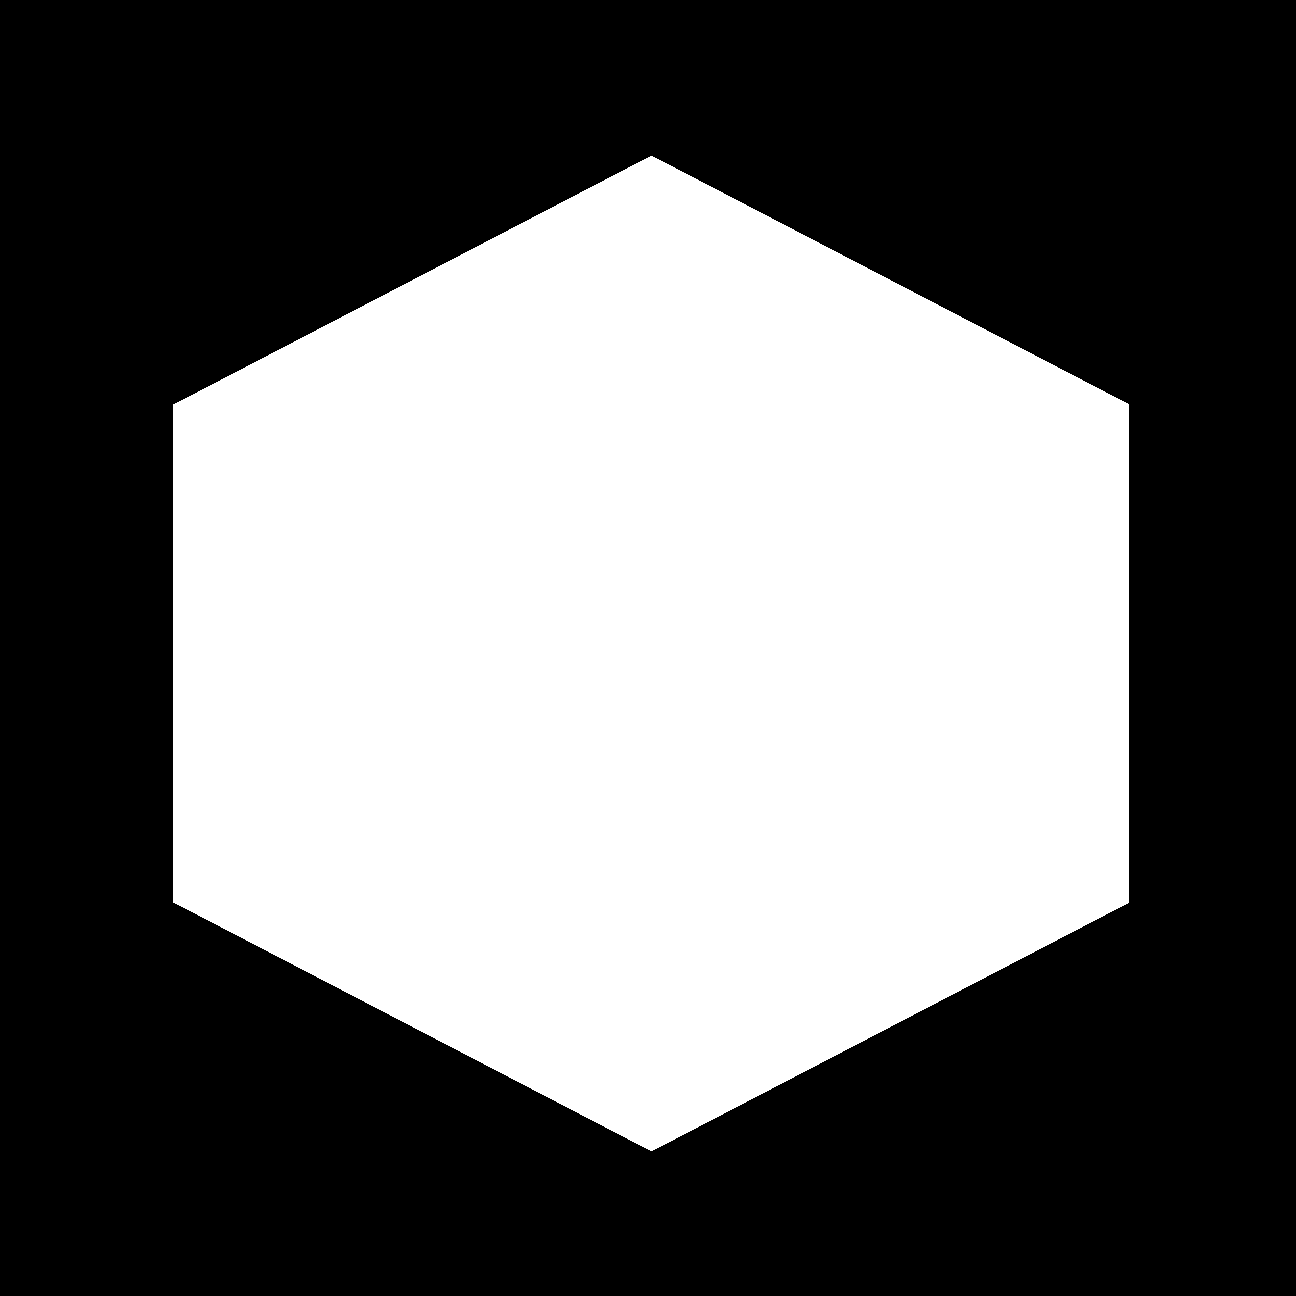
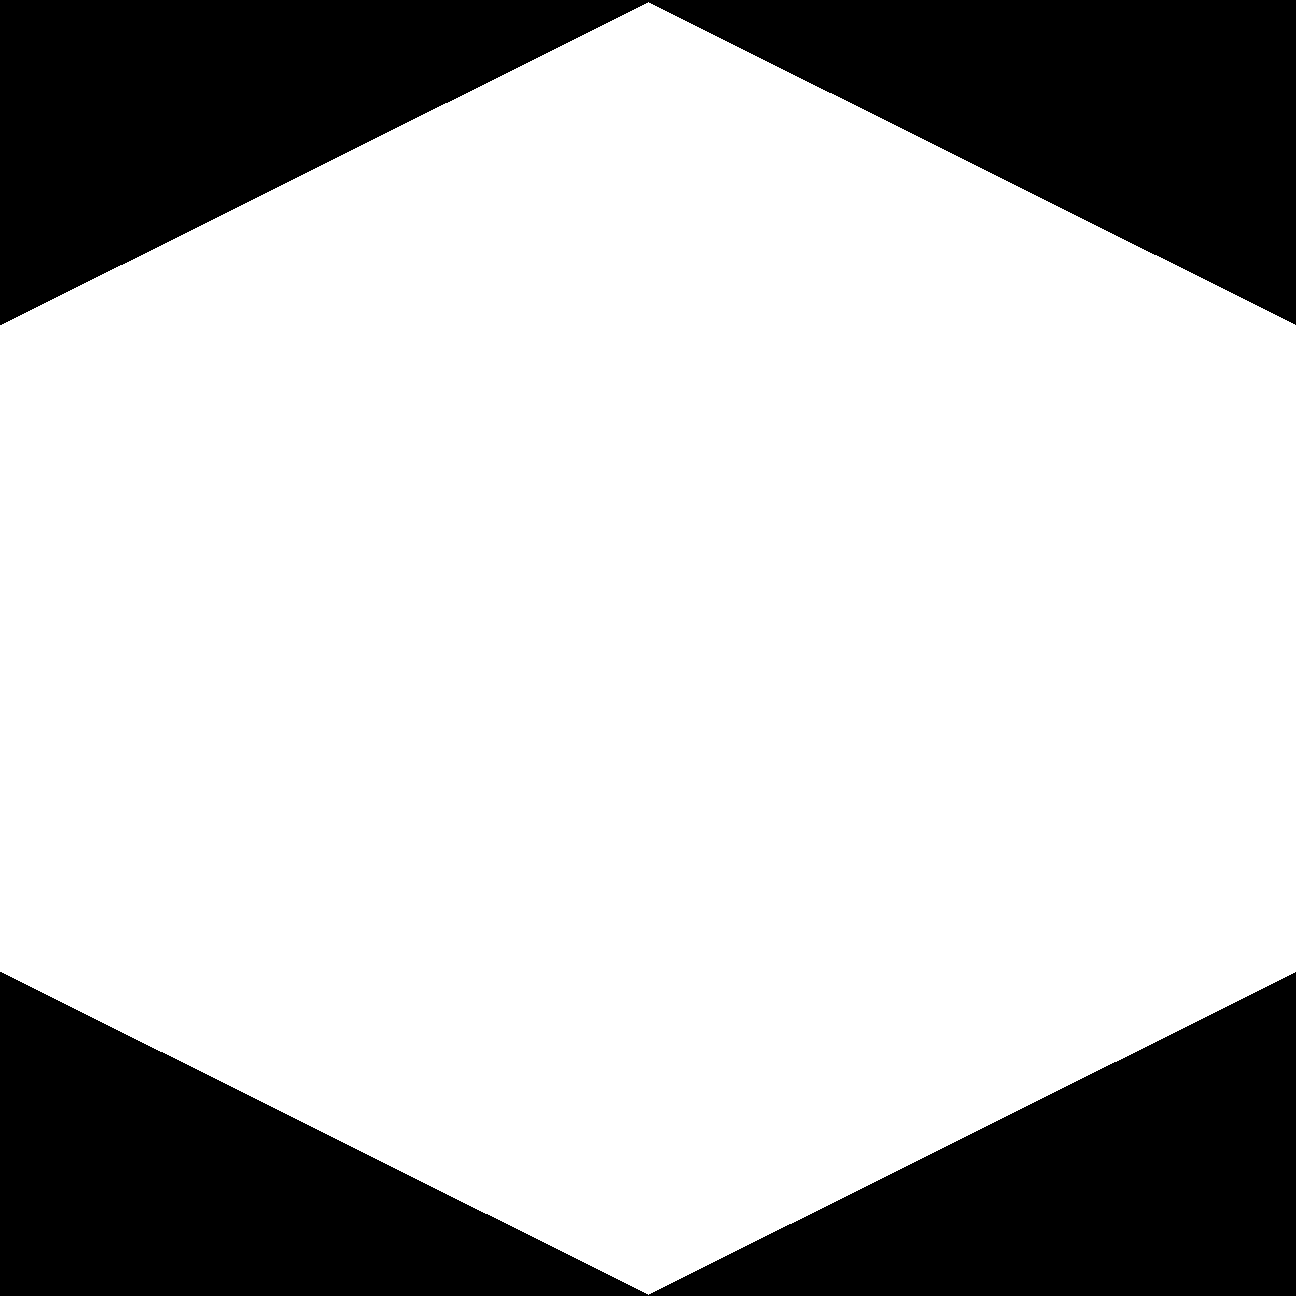
Aperture maker and starburst changes

diff --git a/LensFlare_CGSeminar/src/application.cpp b/LensFlare_CGSeminar/src/application.cpp
@@ -29,12 +29,13 @@ DISABLE_WARNINGS_POP()
 #include "Windows.h"
 #include "lens_solver.h"
 #include "coating_solver.h"
+#include "aperture_maker.h"
 
 /* GLOBAL PARAMS */
 HWND hwnd = GetConsoleWindow();
 UINT dpi = GetDpiForWindow(hwnd);
 const float DISPLAY_SCALING_FACTOR = static_cast<float>(dpi) / 96.0f;
-const char* APERTURE_TEXTURE = "resources/aperture2.png";
+const char* APERTURE_TEXTURE = "resources/iris.png";
 
 class Application {
 public:
@@ -142,12 +143,24 @@ public:
         m_postAPTtransmissions = m_lensSystem.getTransmission(m_postAptReflectionPairs, post_apt_center_ray_x, post_apt_center_ray_y, quarterWaveCoating);
     }
 
+	void updateStarburstTexture(GLuint texStarburst) {
+        createStarburst(APERTURE_TEXTURE);
+        int texWidth, texHeight, texChannels;
+        stbi_uc* pixels = stbi_load("resources/starburst_texture.png", &texWidth, &texHeight, &texChannels, STBI_rgb_alpha);
+
+        if (!pixels) {
+            std::cerr << "Failed to load starburst texture" << std::endl;
+        }
+        glTextureSubImage2D(texStarburst, 0, 0, 0, texWidth, texHeight, GL_RGBA, GL_UNSIGNED_BYTE, pixels);
+        stbi_image_free(pixels);
+	}
+
     void update()
     {
         /* INIT */
 
         /* Create starburst texture */
-        //createStarburst(APERTURE_TEXTURE);
+        createStarburst(APERTURE_TEXTURE);
 
         /* Light Sphere */
         const Mesh lightSphere = mergeMeshes(loadMesh("resources/sphere.obj"));
@@ -328,6 +341,13 @@ public:
 
         bool greyScaleColor = false;
 
+        float starburstScale = 5;
+
+        bool aptMakerOpen = false;
+        bool aptMakerClosed = true;
+        updateAptImage();
+        updateAptTexture(texApt);
+
         /* Flare Paths and Matrices */
         m_lens_interfaces = m_lensSystem.getLensInterfaces();
         refreshMatricesAndQuads();
@@ -351,7 +371,6 @@ public:
 			ImGui::TextColored(ImVec4(1.0f, 1.0f, 0.0f, 1.0f), "Light Settings");
 
             ImGui::SliderFloat("Light Intensity", &m_light_intensity, min_light_intensity, max_light_intensity);
-            //TODO: ADD LIGHT COLOR
 
             if (!m_buildFromScratch) {
                 //Button loading lens system
@@ -382,7 +401,6 @@ public:
                 }
             }
 
-
             ImGui::TextColored(ImVec4(1.0f, 1.0f, 0.0f, 1.0f), "Global Lens Settings");
             
             ImGui::SliderFloat("Lens FOV", &fov, 10.0f, 120.0f);
@@ -390,6 +408,23 @@ public:
                 m_mainProjectionMatrix = glm::perspective(glm::radians(fov), m_aspect, 0.01f, 100.0f);
                 fovMemory = fov;
             }
+
+            ImGui::SliderFloat("Starburst Scale", &starburstScale, 0.0f, 40.0f);
+
+            if (ImGui::Button("Modify Aperture")) {
+                aptMakerOpen = true;
+                ImGui::OpenPopup("Aperture Generator");
+            }
+
+            if (aptMakerOpen) {
+                createApt(&aptMakerOpen, texApt);
+            }
+
+            if (aptMakerClosed && !aptMakerOpen)
+            {
+                updateStarburstTexture(texStarburst);
+            }
+            aptMakerClosed = aptMakerOpen;
 
             ImGui::SliderFloat("Aperture Height", &m_lensSystem.m_aperture_height, 0.0f, 30.0f);
             if (!m_buildFromScratch) {
@@ -1313,7 +1348,6 @@ public:
             starburstMatrix = glm::rotate(starburstMatrix, cameraYawandPitch.y, glm::vec3(1.0f, 0.0f, 0.0f));
 
             glm::vec3 starburstColor = glm::vec3({ 50.f, 50.f, 50.f });
-            float starburstScale = 25;
 
             m_starburstShader.bind();
             glUniformMatrix4fv(0, 1, GL_FALSE, glm::value_ptr(m_mvp));
@@ -1602,7 +1636,7 @@ private:
     Shader m_builderShader;
 
     /* Light Source */
-    const glm::vec3 m_lcolor{ 1, 1, 0.5 };
+    const glm::vec3 m_lcolor{ 1, 1, 0.7 };
     /* Light */
     glm::vec3 m_light_pos = { 0.0001f, 0.0001f, 20.f };
     float m_light_intensity = 150.0f;

diff --git a/LensFlare_CGSeminar/src/starburst.cpp b/LensFlare_CGSeminar/src/starburst.cpp
@@ -1,9 +1,8 @@
 #include <opencv2/opencv.hpp>
 #include <glm/glm.hpp>
-#include "utils.h"
+#include "utils.h" 
 
 int createStarburst(const char* apertureLocation) {
-    // Load the aperture texture
     cv::Mat aperture = cv::imread(apertureLocation, cv::IMREAD_GRAYSCALE);
     if (aperture.empty()) {
         std::cerr << "Failed to load aperture texture." << std::endl;
@@ -29,7 +28,6 @@ int createStarburst(const char* apertureLocation) {
     // Rearrange the quadrants of Fourier image
     int cx = magnitudeImage.cols / 2;
     int cy = magnitudeImage.rows / 2;
-
     cv::Mat q0(magnitudeImage, cv::Rect(0, 0, cx, cy));
     cv::Mat q1(magnitudeImage, cv::Rect(cx, 0, cx, cy));
     cv::Mat q2(magnitudeImage, cv::Rect(0, cy, cx, cy));
@@ -46,37 +44,42 @@ int createStarburst(const char* apertureLocation) {
 
     cv::normalize(magnitudeImage, magnitudeImage, 0, 1, cv::NORM_MINMAX);
 
-    // Prepare an RGB texture by superimposing scaled spectra for different wavelengths
     cv::Mat starburstTexture = cv::Mat::zeros(magnitudeImage.size(), CV_32FC3);
 
-    // Wavelengths from 380 nm to 750 nm (visible spectrum)
+    double lambda0 = 565.0;
+    // Iterate over wavelengths from 380 to 750
     for (double lambda = 380; lambda <= 750.0; lambda += 5.0) {
-        double scale = 10 /* Define your scaling based on wavelength */;
+        double scale = 35;  // Scale factor to boost intensity
         cv::Mat scaledMagnitude;
         cv::multiply(magnitudeImage, scale, scaledMagnitude);
-
-        // Convert wavelength to RGB
         glm::vec3 color = wavelengthToRGB(lambda);
 
-        // Accumulate into the starburst texture
-        for (int y = 0; y < starburstTexture.rows; ++y) {
-            for (int x = 0; x < starburstTexture.cols; ++x) {
+        // For each pixel in the Fourier image, we remap its coordinate:
+        for (int y = 0; y < magnitudeImage.rows; ++y) {
+            for (int x = 0; x < magnitudeImage.cols; ++x) {
                 float intensity = scaledMagnitude.at<float>(y, x);
-                starburstTexture.at<cv::Vec3f>(y, x) += intensity * cv::Vec3f(color.x, color.y, color.z);
+                double u = x - cx;
+                double v = y - cy;
+                int x_obs = cx + static_cast<int>(u * (lambda / lambda0));
+                int y_obs = cy + static_cast<int>(v * (lambda / lambda0));
+                if (x_obs >= 0 && x_obs < starburstTexture.cols && y_obs >= 0 && y_obs < starburstTexture.rows) {
+                    starburstTexture.at<cv::Vec3f>(y_obs, x_obs) += intensity * cv::Vec3f(color.r, color.g, color.b);
+                }
             }
         }
     }
 
-    // Normalize the final texture
-    //cv::normalize(starburstTexture, starburstTexture, 0, 1, cv::NORM_MINMAX);
+    // Gaussian filter to smooth the texture
+    cv::Mat starburstTextureFiltered;
+    cv::GaussianBlur(starburstTexture, starburstTextureFiltered, cv::Size(3, 3), 0);
 
-    // Save the starburst texture
-    // Convert the image from BGR to RGB
+    // Convert from BGR to RGB (if needed)
     cv::Mat starburstTextureRGB;
-    cv::cvtColor(starburstTexture, starburstTextureRGB, cv::COLOR_BGR2RGB);
+    cv::cvtColor(starburstTextureFiltered, starburstTextureRGB, cv::COLOR_BGR2RGB);
 
-    // Save the image in RGB format
-    cv::imwrite("resources/starburst_texture.png", starburstTextureRGB);
-
+    if (!cv::imwrite("resources/starburst_texture.png", starburstTextureRGB)) {
+        std::cerr << "Failed to save starburst texture." << std::endl;
+        return -1;
+    }
     return 0;
 }

diff --git a/LensFlare_CGSeminar/src/aperture_maker.cpp b/LensFlare_CGSeminar/src/aperture_maker.cpp
@@ -1,0 +1,97 @@
+#include "aperture_maker.h" 
+#include <opencv2/opencv.hpp>
+#include <iostream>
+#include <vector>
+#include <cmath>
+#include <limits>
+#include <imgui/imgui.h>
+
+
+int numBlades = 12;
+int angleDeg = 0;
+const int imgSize = 512; //texture resolution
+cv::Mat image;
+GLuint aptTexture = 0;
+
+void updateAptImage() {
+    //min 3 blades
+    int effectiveBlades = (numBlades < 3 ? 3 : numBlades);
+
+    image = cv::Mat(imgSize, imgSize, CV_8UC1, cv::Scalar(0));
+    cv::Point center(imgSize / 2, imgSize / 2);
+
+    //Use a base radius set to 30% of the image’s size.
+    double baseRadius = imgSize * 0.3;
+    double angleOffset = angleDeg * CV_PI / 180.0;
+
+    //Compute the minimal scale factor so that at least one vertex reaches an edge.
+    double s_min = std::numeric_limits<double>::infinity();
+    for (int i = 0; i < effectiveBlades; i++) {
+        double theta = angleOffset + 2.0 * CV_PI * i / effectiveBlades;
+        double cosTheta = std::cos(theta);
+        double sinTheta = std::sin(theta);
+        double candidate_x = (std::abs(cosTheta) < 1e-6)
+            ? std::numeric_limits<double>::infinity()
+            : (static_cast<double>(center.x) / (baseRadius * std::abs(cosTheta)));
+        double candidate_y = (std::abs(sinTheta) < 1e-6)
+            ? std::numeric_limits<double>::infinity()
+            : (static_cast<double>(center.y) / (baseRadius * std::abs(sinTheta)));
+        double candidate = std::min(candidate_x, candidate_y);
+        s_min = std::min(s_min, candidate);
+    }
+    double newRadius = baseRadius * s_min;
+
+    //Compute the polygon vertices.
+    std::vector<cv::Point> vertices;
+    for (int i = 0; i < effectiveBlades; i++) {
+        double theta = angleOffset + 2.0 * CV_PI * i / effectiveBlades;
+        int x = static_cast<int>(center.x + newRadius * std::cos(theta));
+        int y = static_cast<int>(center.y + newRadius * std::sin(theta));
+        vertices.push_back(cv::Point(x, y));
+    }
+
+    std::vector<std::vector<cv::Point>> pts{ vertices };
+    cv::fillPoly(image, pts, cv::Scalar(255));
+}
+
+void updateAptTexture(GLuint texApt) {
+    glTextureSubImage2D(texApt, 0, 0, 0, image.cols, image.rows, GL_RED, GL_UNSIGNED_BYTE, image.ptr());
+}
+
+void saveTex() {
+    std::string filename = "resources/iris.png";
+    if (cv::imwrite(filename, image)) {
+        std::cout << "Image saved as " << filename << std::endl;
+    }
+    else {
+        std::cerr << "Error: Could not save image." << std::endl;
+    }
+}
+
+void createApt(bool* p_open, GLuint texApt) {
+    if (ImGui::BeginPopupModal("Aperture Generator", p_open, ImGuiWindowFlags_AlwaysAutoResize)) {
+        ImGui::Text("Configure the aperture parameters:");
+
+        if (ImGui::SliderInt("Blades (min 3)", &numBlades, 3, 30)) {
+            updateAptImage();
+            updateAptTexture(texApt);
+        }
+
+        if (ImGui::SliderInt("Angle (deg)", &angleDeg, 0, 180)) {
+            updateAptImage();
+            updateAptTexture(texApt);
+        }
+
+        if (ImGui::Button("Load")) {
+            *p_open = false;
+            saveTex();
+            ImGui::CloseCurrentPopup();
+        }
+        ImGui::Separator();
+
+        if (texApt != 0) {
+            ImGui::Image((void*)(intptr_t)texApt, ImVec2((float)image.cols, (float)image.rows));
+        }
+        ImGui::EndPopup();
+    }
+}

diff --git a/LensFlare_CGSeminar/src/aperture_maker.h b/LensFlare_CGSeminar/src/aperture_maker.h
@@ -1,0 +1,7 @@
+#pragma once
+
+#include <glad/glad.h>
+
+void updateAptImage();
+void createApt(bool* p_open, GLuint texApt);
+void updateAptTexture(GLuint texApt);
